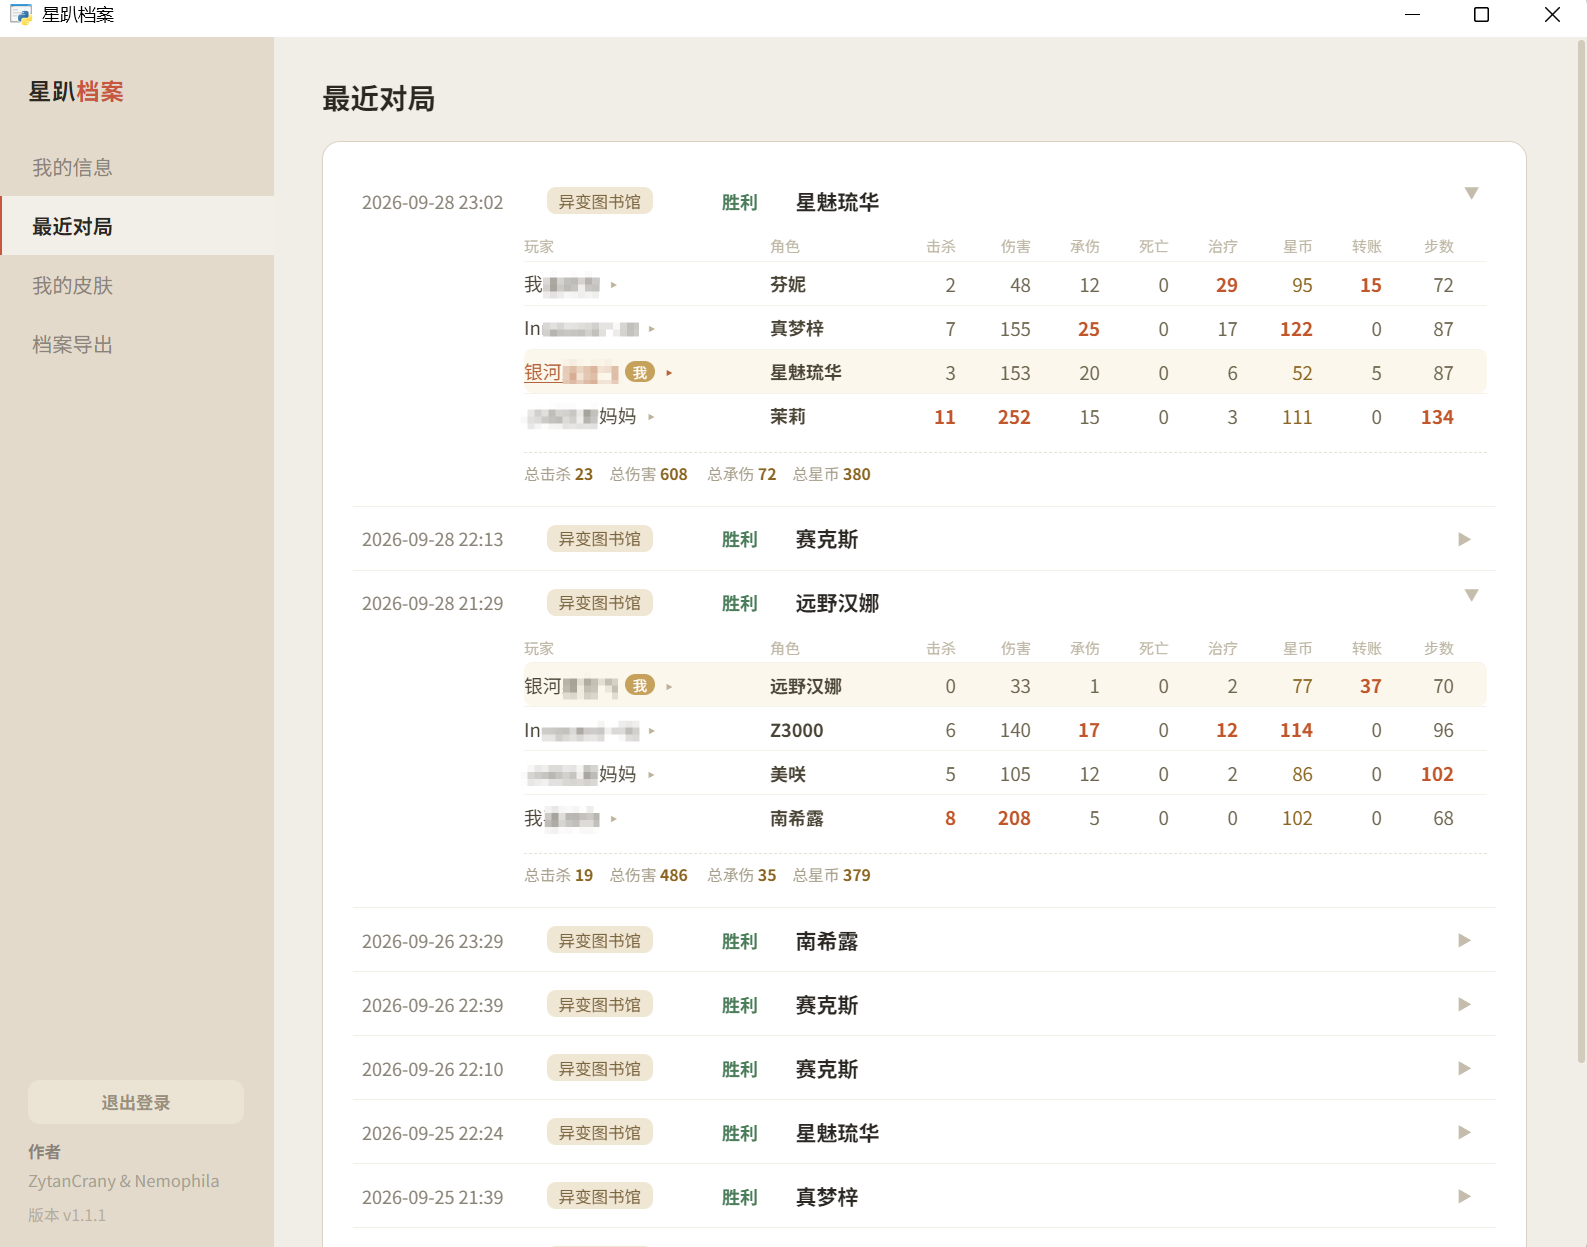
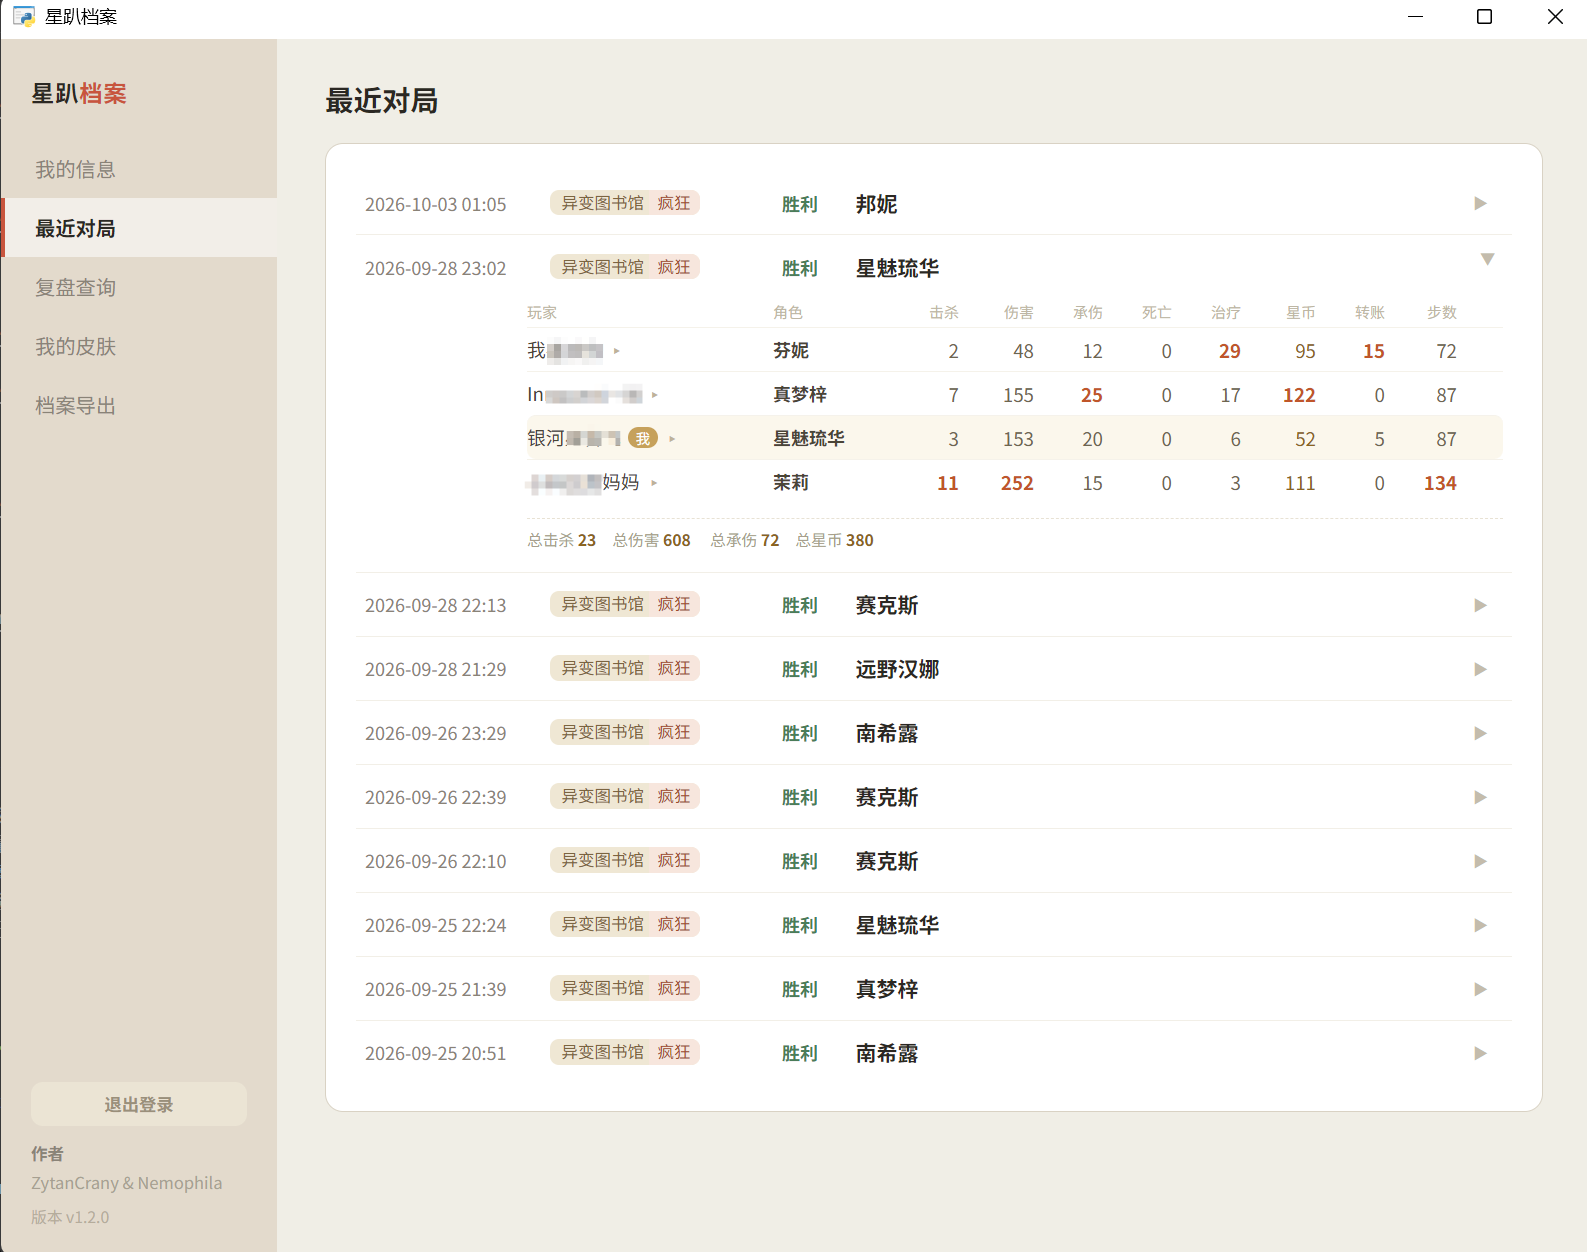
Update documentation and screenshots for the release
- Document the replay lookup page, sorting, difficulty and level features
- Refresh the profile, matches and skins screenshots and add a replay lookup one
- Reflect the current feature set in the Chinese and English readme

diff --git a/main.py b/main.py
@@ -148,7 +148,7 @@ def _load_potential():
 #         23 kill_pve_monster 击杀怪物 · 24 treatmentScore 治疗 · 25 movePoint 移动
 #         26 battleDiceSixCount 骰6 · 27 finalKillBoss 击杀Boss
 # ═══════════════════════════════════════════════════════════════════════
-VERSION = 'v1.2.0-beta.6'  # 工具版本号
+VERSION = 'v1.2.0'  # 工具版本号
 REPLAY_DIR = DATA_DIR / 'replays'
 REPLAY_URL = 'https://sereplaycn.feimogames.com/prod/%s'
 

diff --git a/README.en.md b/README.en.md
@@ -3,12 +3,12 @@
 **星趴档案** ｜ 中文 README → [README.md](README.md)
 
 > 《Astral Party》(CN server「吉星派对」)
-> Authors: **Nemophila & ZtyanCrany** ｜ Version **v1.1.1**
+> Authors: **Nemophila & ZtyanCrany** ｜ Version **v1.2.0**
 
-A tidy self-service tool: log in with your own account, then browse your full profile, skin
-collection and recent matches — click any match to see each player's **round-by-round summary
-and relic pickups**.
-**All data is processed on your own machine.**
+A tidy self-service tool: log in with your own account, then browse your profile, skin collection
+and recent matches, or look up a match by replay id / a player by UID — click any match to see each
+player's **round-by-round summary and relic pickups**.
+**All data is processed on your own machine**; game artwork is read from the locally installed game.
 
 ---
 
@@ -18,11 +18,12 @@ and relic pickups**.
 | --- | --- |
 | **Login (登录页面)** | SMS-code login; the session can be remembered for automatic login next time |
 | **My Profile (我的信息)** | Level, total matches / wins / win-rate, owned characters, skins, likes, character usage ranking |
-| **My Skins (我的皮肤)** | Every skin of every character, owned or not, with bond status, level and potential |
+| **My Skins (我的皮肤)** | Every skin of every character, owned or not, with bond status |
 | **Recent Matches (最近对局)** | The latest 10 matches; expand one to see all four players' stats, click a player name for their per-round summary and relic pickups |
+| **Replay Lookup (复盘查询)** | One box that takes a **replay id** or a **player UID**: a replay id opens that single match, a UID lists that player's latest 10 matches (no login required) |
 | **Export (档案导出)** | One-click Markdown archive (usage ranking + match details), copy it or save to a file |
 
-### 🎲 Replay Breakdown (new in v1.1.0)
+### 🎲 Replay Breakdown (new in v1.1.0, difficulty and level added in v1.2.0)
 
 Click a player name inside 「Recent Matches」 to open that player's replay window:
 
@@ -32,6 +33,17 @@ Click a player name inside 「Recent Matches」 to open that player's replay win
 - **Relic pickup log** — grouped by round, with the source labelled (quest completion / star-up /
   shop purchase / cycle), showing which relic was chosen out of the three choices and what came
   up **before and after a reroll**
+
+### 🔍 Replay Lookup (new in v1.2.0)
+
+「Replay Lookup」 in the sidebar has a single box that works out what you are asking for:
+
+- **A replay id** — opens that one match in full: all four players' round-by-round stats and relic
+  pickups can be expanded
+- **A player UID** — lists that player's latest 10 matches; click any of them for the full breakdown
+
+Lookups need **no login**, so you can pull up a friend's matches; every match is tagged with its
+difficulty.
 
 ---
 
@@ -51,7 +63,11 @@ Click a player name inside 「Recent Matches」 to open that player's replay win
 
 ![Replay detail](screenshots/04-replay-detail.png)
 
-**My Skins** — every skin of every character, owned or not, with bond status / level / potential
+**Replay Lookup** — enter a replay id or a player UID to see a single match or that player's latest 10 matches
+
+![Replay Lookup](screenshots/07-query.png)
+
+**My Skins** — every skin of every character, owned or not, with bond status
 
 ![My Skins](screenshots/05-skins.png)
 

diff --git a/README.md b/README.md
@@ -3,12 +3,11 @@
 **AstralParty_Dex** ｜ English README → [README.en.md](README.en.md)
 
 > 《星引擎 Party》《Astral Party》（国服又名「吉星派对」）
-> 作者：Nemophila & ZytanCrany ｜ 版本 v1.1.1
+> 作者：Nemophila & ZytanCrany ｜ 版本 v1.2.0
 
-一个简洁的自助小工具：登录账号，查看账号信息、皮肤收藏和最近对局战绩，
+一个简洁的自助小工具：登录账号，查看账号信息、皮肤和最近对局战绩，根据uid或回放号查询战局，
 点开任意一局可逐位玩家看**逐轮战况简报与筹码拿取明细**。
-**所有数据在本地主机处理，**
-游戏本体美术资源通过本机游戏资源获取。
+所有数据在本地主机处理，游戏本体美术资源通过本机游戏资源获取。
 
 ---
 
@@ -17,12 +16,13 @@
 | 页面 | 内容 |
 | --- | --- |
 | **登录页面** | 短信验证码登录；可记住登录态实现自动登录 |
-| **我的信息** | 等级、累计场次 / 胜场 / 胜率、拥有角色 、 皮肤数、获赞数、角色使用排行 |
-| **我的皮肤** | 按角色列出全部皮肤，标注已拥有 / 未拥有、羁绊状态、等级与潜能 |
+| **我的信息** | 等级、累计场次 / 胜场 / 胜率、拥有角色、皮肤数、获赞数、角色使用排行 |
+| **我的皮肤** | 按角色列出全部皮肤，标注已拥有 / 未拥有、羁绊状态 |
 | **最近对局** | 最近 10 局，展开看四位玩家的战绩表，点击玩家名查看每轮战况与拿取筹码明细 |
+| **复盘查询** | 输入**回放号**或**玩家 UID** 可查：回放号看单局，UID 看该玩家最近10局对局 |
 | **档案导出** | 一键生成 Markdown 档案（含角色使用排行 + 对局明细），可复制或保存为文件 |
 
-### 🎲 对局复盘（v1.1.0 新增）
+### 🎲 对局复盘（v1.1.0 新增，v1.2.0 补上难度与等级）
 
 在「最近对局」里**点击玩家名字**可弹出该玩家的复盘窗口：
 
@@ -31,6 +31,13 @@
 - **筹码总览** —— 这局拿了哪些筹码
 - **获取筹码明细** —— 按轮次分块，标明来源（ 任务完成 / 升星 / 商店购买 /  循环往复），
   展示三选一时选了哪件筹码、以及**刷新前后**出了哪些筹码
+
+### 🔍 复盘查询（v1.2.0 新增）
+
+侧边栏的「复盘查询」只有一个输入框，自动识别你要查什么：
+
+- **回放号** —— 打开那一局的完整记录，四位玩家的逐轮战况与筹码明细都能展开
+- **玩家UID** —— 列出该玩家最近10局，点任意一局可看复盘信息
 
 ---
 
@@ -50,7 +57,11 @@
 
 ![复盘明细](screenshots/04-replay-detail.png)
 
-**我的皮肤** —— 按角色列出全部皮肤，标注已拥有 / 未拥有、羁绊状态、等级与潜能
+**复盘查询** —— 输入回放号或玩家 UID，查单局或该玩家最近 10 局
+
+![复盘查询](screenshots/07-query.png)
+
+**我的皮肤** —— 按角色列出全部皮肤，标注已拥有 / 未拥有、羁绊状态
 
 ![我的皮肤](screenshots/05-skins.png)
 

diff --git a/CHANGELOG.md b/CHANGELOG.md
@@ -1,5 +1,35 @@
 # 更新日志
 
+## v1.2.0 — 2026-10-03
+
+### ✨ 新增
+
+- **复盘查询（新页面）**：侧边栏新增「复盘查询」，一个输入框自动识别**回放号**或**玩家 UID** ——
+  回放号打开那一局的完整记录，UID 列出该玩家**最近 10 局**；查询不需要登录。
+- **显示对局难度**：最近对局列表、复盘查询结果、回放卡片、复盘弹窗四处都标出本局难度
+  （普通 / 困难 / 噩梦 / 疯狂 / 极限，按颜色区分）。
+- **玩家等级**：复盘弹窗里每位玩家名字后带 `Lv.xx`。
+- **列表排序**：
+  - 「我的信息」：角色（按编号）、场次、胜场、胜率四列表头可点击，循环切换
+    升序 / 降序 / 默认；场次默认从高到低。
+  - 「我的皮肤」：角色编号、已拥有换装、角色换装数三档 + 右侧方向按钮切换升降序。
+  - 胜率 / 胜场数值相同时，先按**场次多到少**，再按角色编号。
+
+### 🔧 改进
+
+- **联动角色的判定不再写死**：除内置名单外，还读取**本机游戏资源**里该角色的立绘变体 ——
+  没有 `Max`（满羁绊）立绘的角色必然没有羁绊皮肤。两者取并集，
+  **以后游戏出新联动角色不需要改代码**；本机没有游戏资源时自动退回内置名单，行为不变。
+- **皮肤列表不再漏条目**：背包里有、名字表里没有的序号会补一格「皮肤 00X」，
+  保证「共 X 套」与列表里亮起来的格数永远相等。
+- 联动角色的名皮位置按**批次号段**还原（例如 `100301001~100301004` 同时覆盖
+  超天酱与糖糖两个角色），糖糖（主播女孩）的「休闲日常」不再漏判。
+
+### 🐛 修复
+
+- **联动角色皮肤永远显示未拥有**：部分联动角色的皮肤 id 是整批共用一个号段的，
+  旧规则把 `100301004` 解析成「301 的第 4 号」，导致 302 永远找不到自己的皮肤。
+
 ## v1.1.1 — 2026-10-01
 
 ### ✨ 新增
